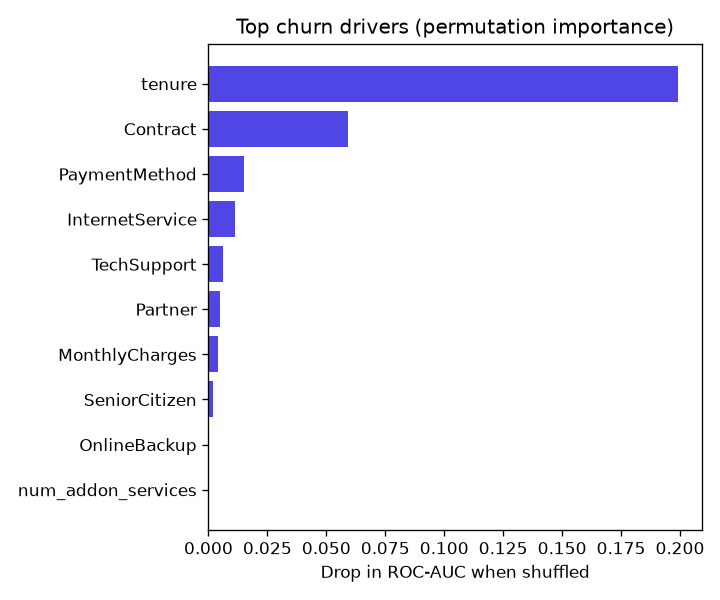
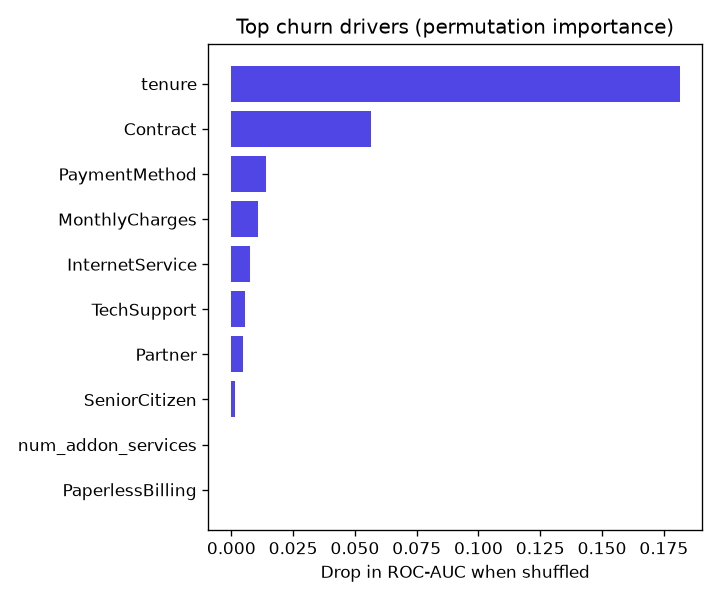
docs: document new capabilities and regenerate evaluation artifacts
Updated README (metrics, architecture, SHAP/threshold/MLOps sections) and
refreshed metrics.json, model_card.md and the figures (now including the
calibration and cost-vs-threshold curves).

diff --git a/README.md b/README.md
@@ -18,29 +18,34 @@ Docker, CI) you'd expect in production.
 
 ## Results
 
-Trained on a Telco-style dataset (7,043 customers), the selected model reaches
-the following on a held-out 20% test split:
+Trained on a Telco-style dataset (7,043 customers), the tuned and calibrated
+model reaches the following on a held-out 20% test split:
 
 | Metric | Value | Meaning |
 | --- | --- | --- |
 | **ROC-AUC** | **0.81** | Ranks a random churner above a random non-churner 81% of the time |
 | **PR-AUC** | **0.54** | Strong vs. the 21% base churn rate |
-| **Recall** | **0.76** | Catches 76% of customers who actually churn |
-| **Precision** | **0.41** | Tunable via the decision threshold |
-| **F1** | **0.54** | |
+| **Brier score** | **0.13** | Probabilities are well-calibrated (lower is better) |
+| **Recall @ 0.20** | **0.79** | Catches 79% of customers who actually churn |
+| **Precision @ 0.20** | **0.41** | At the business-chosen threshold |
+| **F1 @ 0.20** | **0.54** | |
 
-Three models (logistic regression, random forest, gradient boosting) are
-compared by 5-fold cross-validated ROC-AUC; the best is selected automatically.
+Three models (logistic regression, random forest, gradient boosting) are compared
+by 5-fold cross-validated ROC-AUC; the winner is then **hyperparameter-tuned**
+(randomized search) and **probability-calibrated** (isotonic). The decision
+threshold is **chosen to minimise business cost**, not left at 0.5 — which cut
+expected cost on the test set by ~37% (from 1047 to 654 with cost_fn=5, cost_fp=1).
 
 **Top churn drivers** (permutation importance): `tenure`, `Contract`,
-`PaymentMethod`, `InternetService`, `TechSupport` — matching the known
+`PaymentMethod`, `MonthlyCharges`, `InternetService` — matching the known
 real-world Telco churn story (new, month-to-month, electronic-check customers
-churn most).
+churn most). Every individual prediction also gets its own **SHAP explanation**.
 
 <p align="center">
-  <img src="reports/figures/roc_curve.png" width="32%" alt="ROC curve"/>
-  <img src="reports/figures/pr_curve.png" width="32%" alt="Precision-recall curve"/>
-  <img src="reports/figures/feature_importance.png" width="32%" alt="Feature importance"/>
+  <img src="reports/figures/roc_curve.png" width="24%" alt="ROC curve"/>
+  <img src="reports/figures/calibration_curve.png" width="24%" alt="Reliability curve"/>
+  <img src="reports/figures/cost_curve.png" width="24%" alt="Cost vs threshold"/>
+  <img src="reports/figures/feature_importance.png" width="24%" alt="Feature importance"/>
 </p>
 
 ---
@@ -50,19 +55,22 @@ churn most).
 ```
                  config/config.yaml  (single source of truth)
                           │
-   data.py ──► features.py ──► train.py ──► evaluate.py
- (dataset)    (engineering +   (CV model      (metrics.json,
-              ColumnTransformer) selection +    figures, model card)
-                                 persistence)
+   data.py ──► features.py ──► train.py ──────────► evaluate.py
+ (real or     (engineering +   (CV select →         (threshold choice,
+  synthetic)   ColumnTransformer) tune → calibrate)   metrics, figures,
+                          │                            calibration + cost curves)
+                          ▼
+              models/churnguard.joblib  (ModelBundle: model + threshold + SHAP background)
+                          │
+            ┌─────────────┴──────────────┐
+            ▼                             ▼
+   explain.py (SHAP)            predict.py ──► api.py
+                                (batch CLI)    (/  /health  /metrics  /stats  /predict)
                           │
                           ▼
-                 models/churnguard.joblib
-                          │
-                          ▼
-   predict.py ──► api.py  (FastAPI: /health  /metrics  /predict)
-                          │
-                          ▼
-                   Docker image  ──►  anywhere
+                   Docker image  ──►  Render / HF Spaces / anywhere
+
+   MLflow logs every training + evaluation run to ./mlruns (best-effort).
 ```
 
 Key design choices:
@@ -74,7 +82,15 @@ Key design choices:
 - **Config-driven.** Paths, the candidate models, CV folds and the target column
   all live in `config/config.yaml` — no magic numbers in the code.
 - **Reproducible.** One fixed seed flows through data generation, splitting and
-  modelling. `make all` rebuilds everything from scratch.
+  modelling; `requirements.lock` pins the exact dependency tree. `make all`
+  rebuilds everything from scratch.
+- **Calibrated & cost-aware.** Probabilities are calibrated (isotonic) so "0.7"
+  means roughly 70%, and the decision threshold is picked to minimise expected
+  business cost rather than defaulting to 0.5.
+- **Explainable.** Every prediction returns its top SHAP risk drivers mapped
+  back to business-readable columns (e.g. `Contract`, not a one-hot column).
+- **Typed & observable.** `mypy` in CI, a `/stats` endpoint, and best-effort
+  MLflow experiment tracking.
 
 ---
 
@@ -91,18 +107,26 @@ make all                            # data + train + evaluate + tests
 make serve                          # http://localhost:8000/docs
 ```
 
-Score some customers:
+Score a customer and ask *why*:
 
 ```bash
 curl -s -X POST http://localhost:8000/predict \
   -H "Content-Type: application/json" \
-  -d '{"customers":[{"tenure":1,"MonthlyCharges":95,"TotalCharges":95,
+  -d '{"explain":true,"customers":[{"tenure":1,"MonthlyCharges":95,"TotalCharges":95,
        "Contract":"Month-to-month","InternetService":"Fiber optic",
        "PaymentMethod":"Electronic check","TechSupport":"No","SeniorCitizen":1}]}'
 ```
 
 ```json
-{"predictions":[{"churn_probability":0.9748,"will_churn":true,"risk_band":"high"}]}
+{"predictions":[{"churn_probability":0.97,"will_churn":true,"risk_band":"high",
+  "reasons":[{"feature":"tenure","value":1,"impact":0.9,"direction":"increases risk"},
+             {"feature":"Contract","value":"Month-to-month","impact":0.6,"direction":"increases risk"}]}]}
+```
+
+Score a whole CSV from the command line:
+
+```bash
+python -m churnguard.predict customers.csv --out scored.csv --explain
 ```
 
 ### Docker
@@ -120,16 +144,20 @@ make docker-run        # serves on :8000, with a container HEALTHCHECK
 churnguard/
 ├── churnguard/            # the Python package
 │   ├── config.py          # typed, cached config loader
-│   ├── data.py            # dataset generation / loading
+│   ├── data.py            # dataset generation / loading / real-data download
 │   ├── features.py        # feature engineering + ColumnTransformer
-│   ├── train.py           # CV model selection + persistence
-│   ├── evaluate.py        # metrics, figures, model card
-│   ├── predict.py         # inference (shared by CLI + API)
-│   └── api.py             # FastAPI service
+│   ├── train.py           # CV selection → tuning → calibration
+│   ├── bundle.py          # the saved model artifact (model + threshold + SHAP background)
+│   ├── evaluate.py        # metrics, figures, business threshold, model card
+│   ├── explain.py         # per-prediction SHAP explanations
+│   ├── predict.py         # inference + batch CSV CLI (shared by API)
+│   ├── tracking.py        # best-effort MLflow logging
+│   └── api.py             # FastAPI service (+ interactive demo page)
 ├── config/config.yaml     # all tunable settings
-├── tests/                 # pytest suite (data, features, training, API)
-├── scripts/make_dataset.py
-├── Dockerfile · Makefile · pyproject.toml · requirements.txt
+├── tests/                 # pytest suite (data, features, training, explain, API, CLI)
+├── scripts/               # make_dataset.py · download_data.py
+├── Dockerfile · Makefile · pyproject.toml · requirements.txt · requirements.lock
+├── .pre-commit-config.yaml
 └── .github/workflows/ci.yml
 ```
 
@@ -138,31 +166,35 @@ churnguard/
 ## Testing & quality
 
 ```bash
-make test        # 16 tests: generation, feature parity, training, the API
-ruff check .     # linting (also enforced in CI)
+make test        # 25 tests: generation, feature parity, training, SHAP, API, CLI
+make coverage    # tests + coverage report
+make lint        # ruff
+make typecheck   # mypy
+pre-commit install   # run ruff + mypy automatically on every commit
 ```
 
-CI (GitHub Actions) runs lint + tests on Python 3.10 and 3.12, plus a smoke test
-that the full `train → evaluate` pipeline runs end to end and produces artifacts.
+CI (GitHub Actions) runs **ruff + mypy + tests with coverage** on Python 3.10 and
+3.12, plus a smoke test that the full `train → evaluate` pipeline runs end to end
+and produces artifacts.
 
 ---
 
 ## Using the real Telco dataset
 
 The repo ships a **synthetic** dataset generator so it runs with zero downloads,
-built to reproduce the real dataset's schema and churn drivers (see the
-docstring in `churnguard/data.py`). To train on the genuine
+built to reproduce the real dataset's schema and churn drivers (see the docstring
+in `churnguard/data.py`). To train on the genuine
 [Telco Customer Churn](https://www.kaggle.com/datasets/blastchar/telco-customer-churn)
-data, drop its CSV at `data/churn.csv` (same column names) and run `make train evaluate`.
+data, run `make data-real` (downloads the real CSV) and then `make train evaluate`.
 
 ---
 
 ## Possible extensions
 
-- Hyper-parameter search (`GridSearchCV` / Optuna) and calibrated probabilities.
-- Experiment tracking with MLflow; model registry + versioning.
-- Threshold tuning against the business cost of a false negative vs. false positive.
-- Drift monitoring on the live request stream.
+- A model registry + automated promotion on top of the MLflow runs.
+- Concept-drift monitoring on the live request stream (the `/stats` endpoint is a start).
+- Online threshold re-tuning as the real cost ratio changes.
+- A small front-end dashboard over the batch scores.
 
 ## License
 

diff --git a/reports/model_card.md b/reports/model_card.md
@@ -1,38 +1,39 @@
 # Model card — ChurnGuard
 
 **Date:** 2026-10-26
-**Model:** logistic_regression
+**Model:** logistic_regression (tuned=True, calibrated=True)
 **Task:** Binary classification — will a customer churn?
 
 ## Intended use
 Rank a telecom customer base by churn risk so a retention team can prioritise
-outreach. Not intended for automated, consequential decisions without a
-human in the loop.
+outreach. Not for automated, consequential decisions without a human in the loop.
 
 ## Data
 Telco-style customer dataset (7043 rows). See
-`churnguard/data.py` for the schema and the (synthetic) generating process;
-swap in the real Kaggle Telco CSV at `data/churn.csv` to retrain on genuine data.
+`churnguard/data.py`; run `make data-real` to train on the genuine Kaggle Telco CSV.
 
 ## Metrics (held-out test split, n = 1409)
 | Metric | Value |
 | --- | --- |
 | ROC-AUC | 0.8144 |
-| PR-AUC | 0.541 |
-| Precision | 0.413 |
-| Recall | 0.7625 |
-| F1 | 0.5358 |
+| PR-AUC | 0.5376 |
+| Brier score (calibration, lower=better) | 0.1291 |
+| Precision @ threshold | 0.4104 |
+| Recall @ threshold | 0.7893 |
+| F1 @ threshold | 0.54 |
 
-Baseline churn rate in the test split: 0.2122.
+## Decision threshold
+Chosen at **0.2** (not the default 0.5) to minimise expected
+business cost with cost_fn=5, cost_fp=1. This cut expected cost
+from 1047 (at 0.5) to 654.
 
 ## Top churn drivers
-- `tenure` (importance 0.1994)
-- `Contract` (importance 0.059)
-- `PaymentMethod` (importance 0.0151)
-- `InternetService` (importance 0.0114)
-- `TechSupport` (importance 0.006)
+- `tenure` (importance 0.1814)
+- `Contract` (importance 0.0565)
+- `PaymentMethod` (importance 0.014)
+- `MonthlyCharges` (importance 0.0109)
+- `InternetService` (importance 0.0077)
 
 ## Limitations
 - Trained on a single snapshot; no concept-drift monitoring.
-- Decision threshold fixed at 0.5; tune it to the business
-  cost of false positives vs. false negatives before production use.
+- Threshold reflects the configured cost ratio; retune if the business changes.
